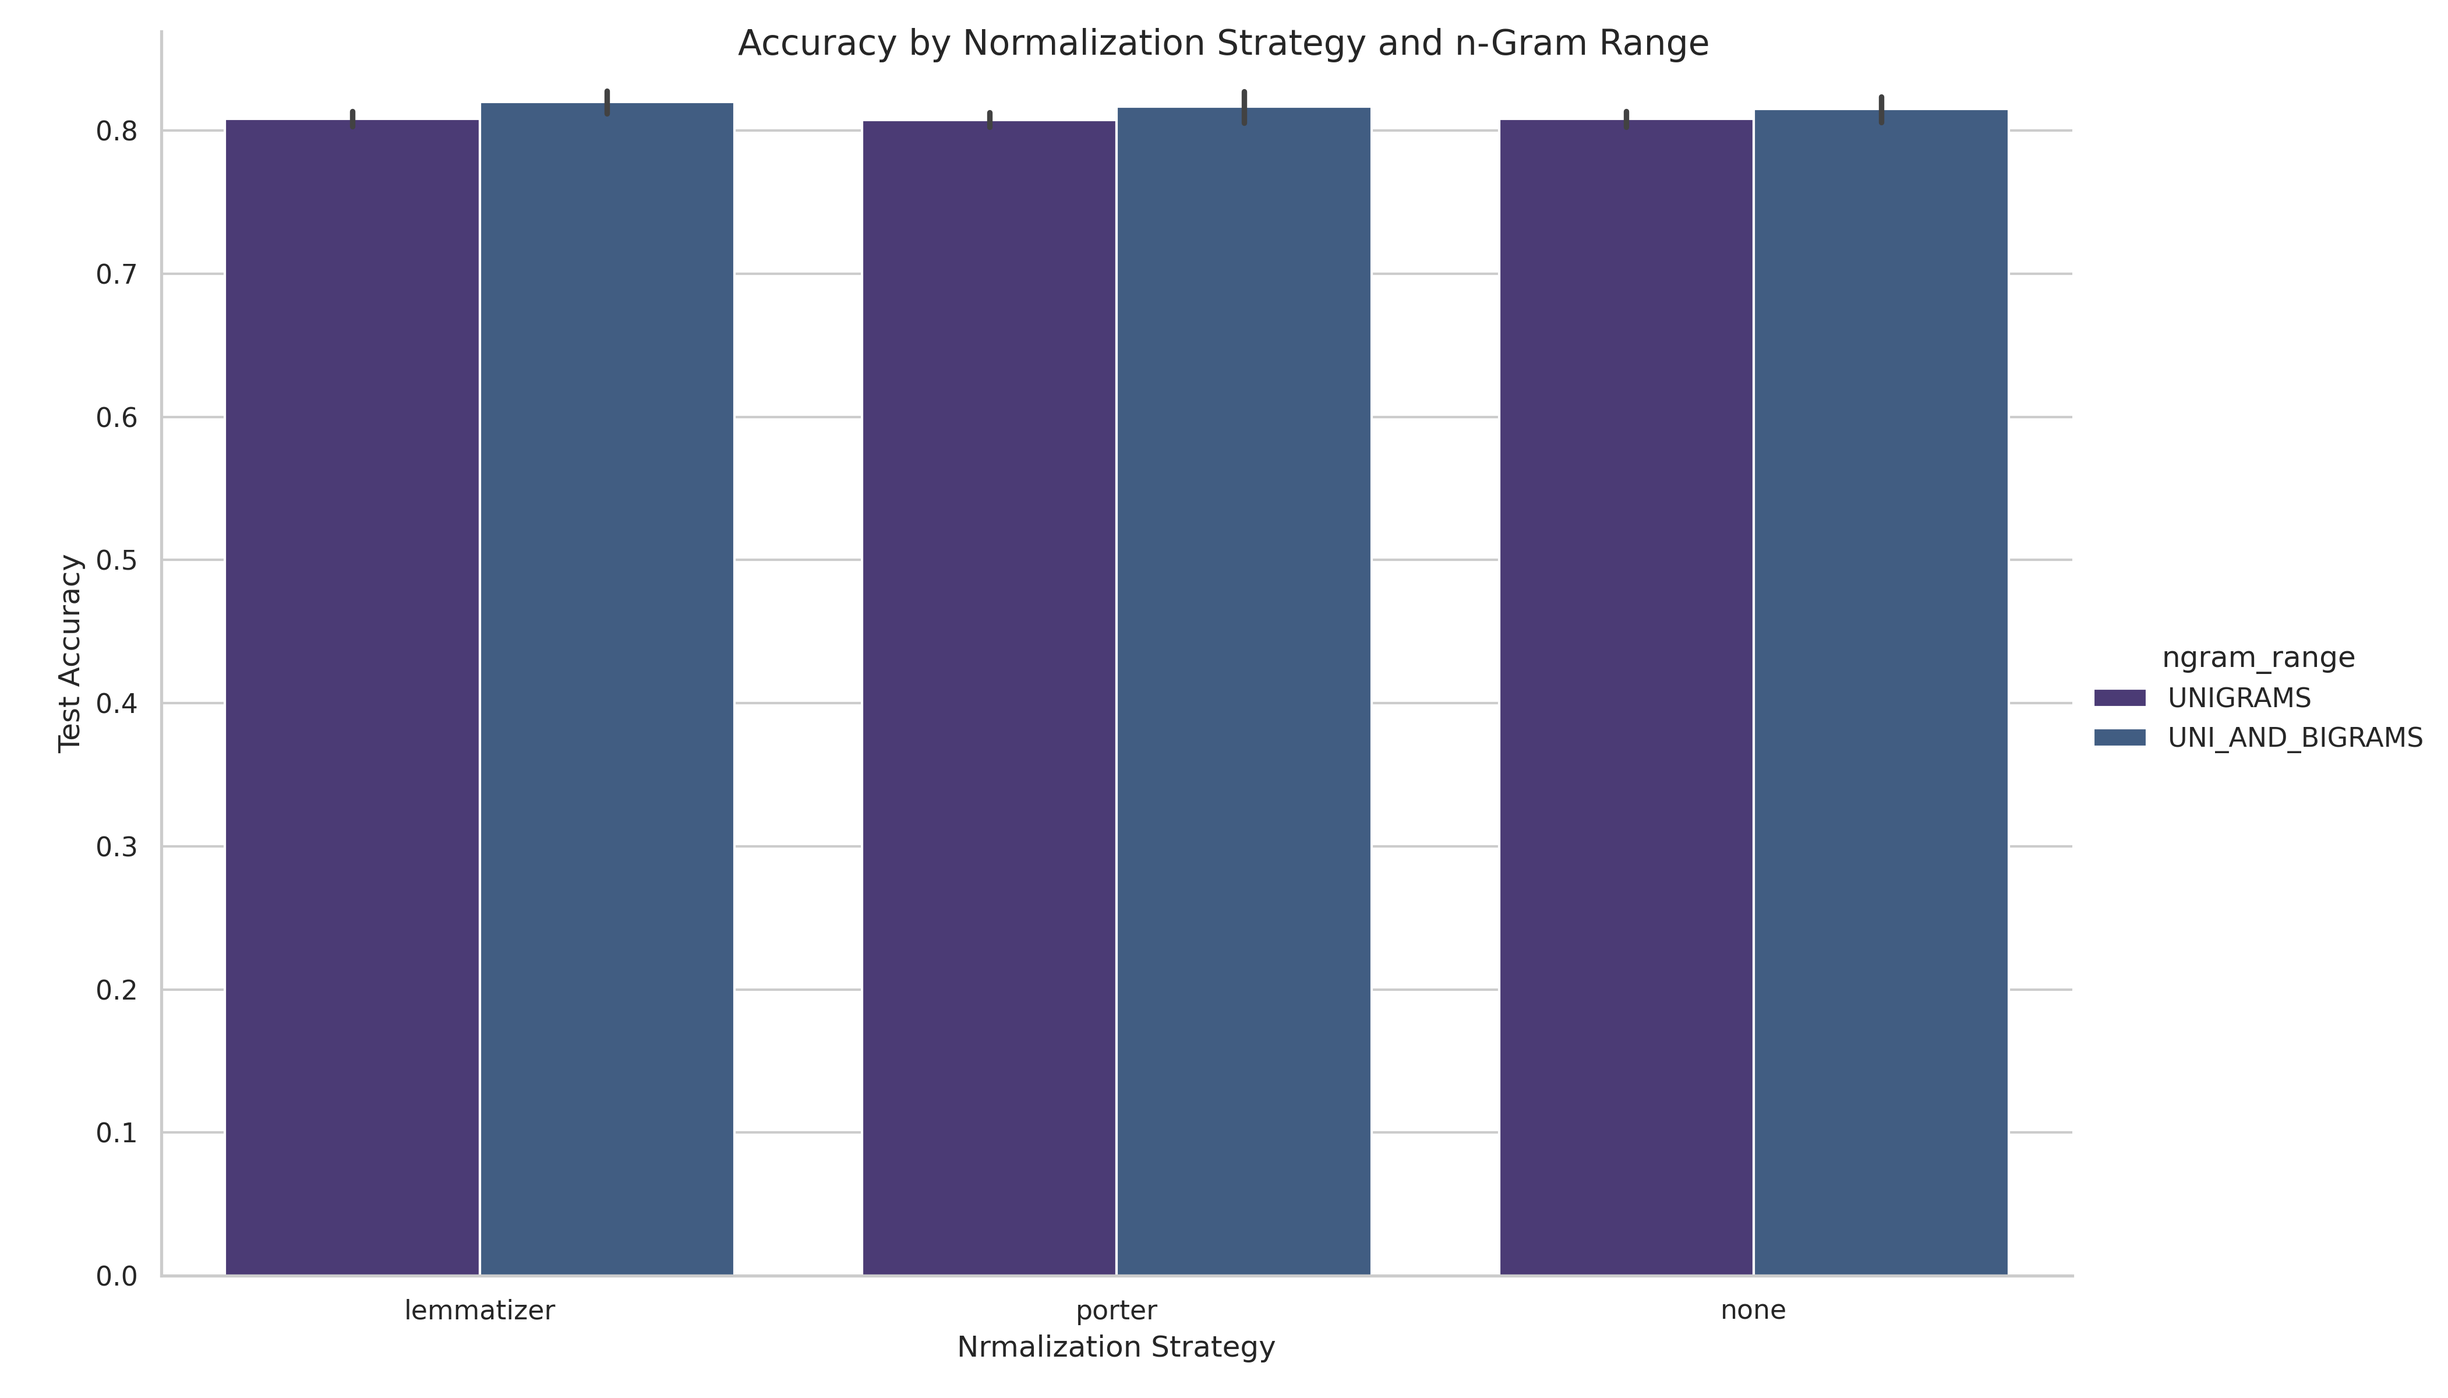
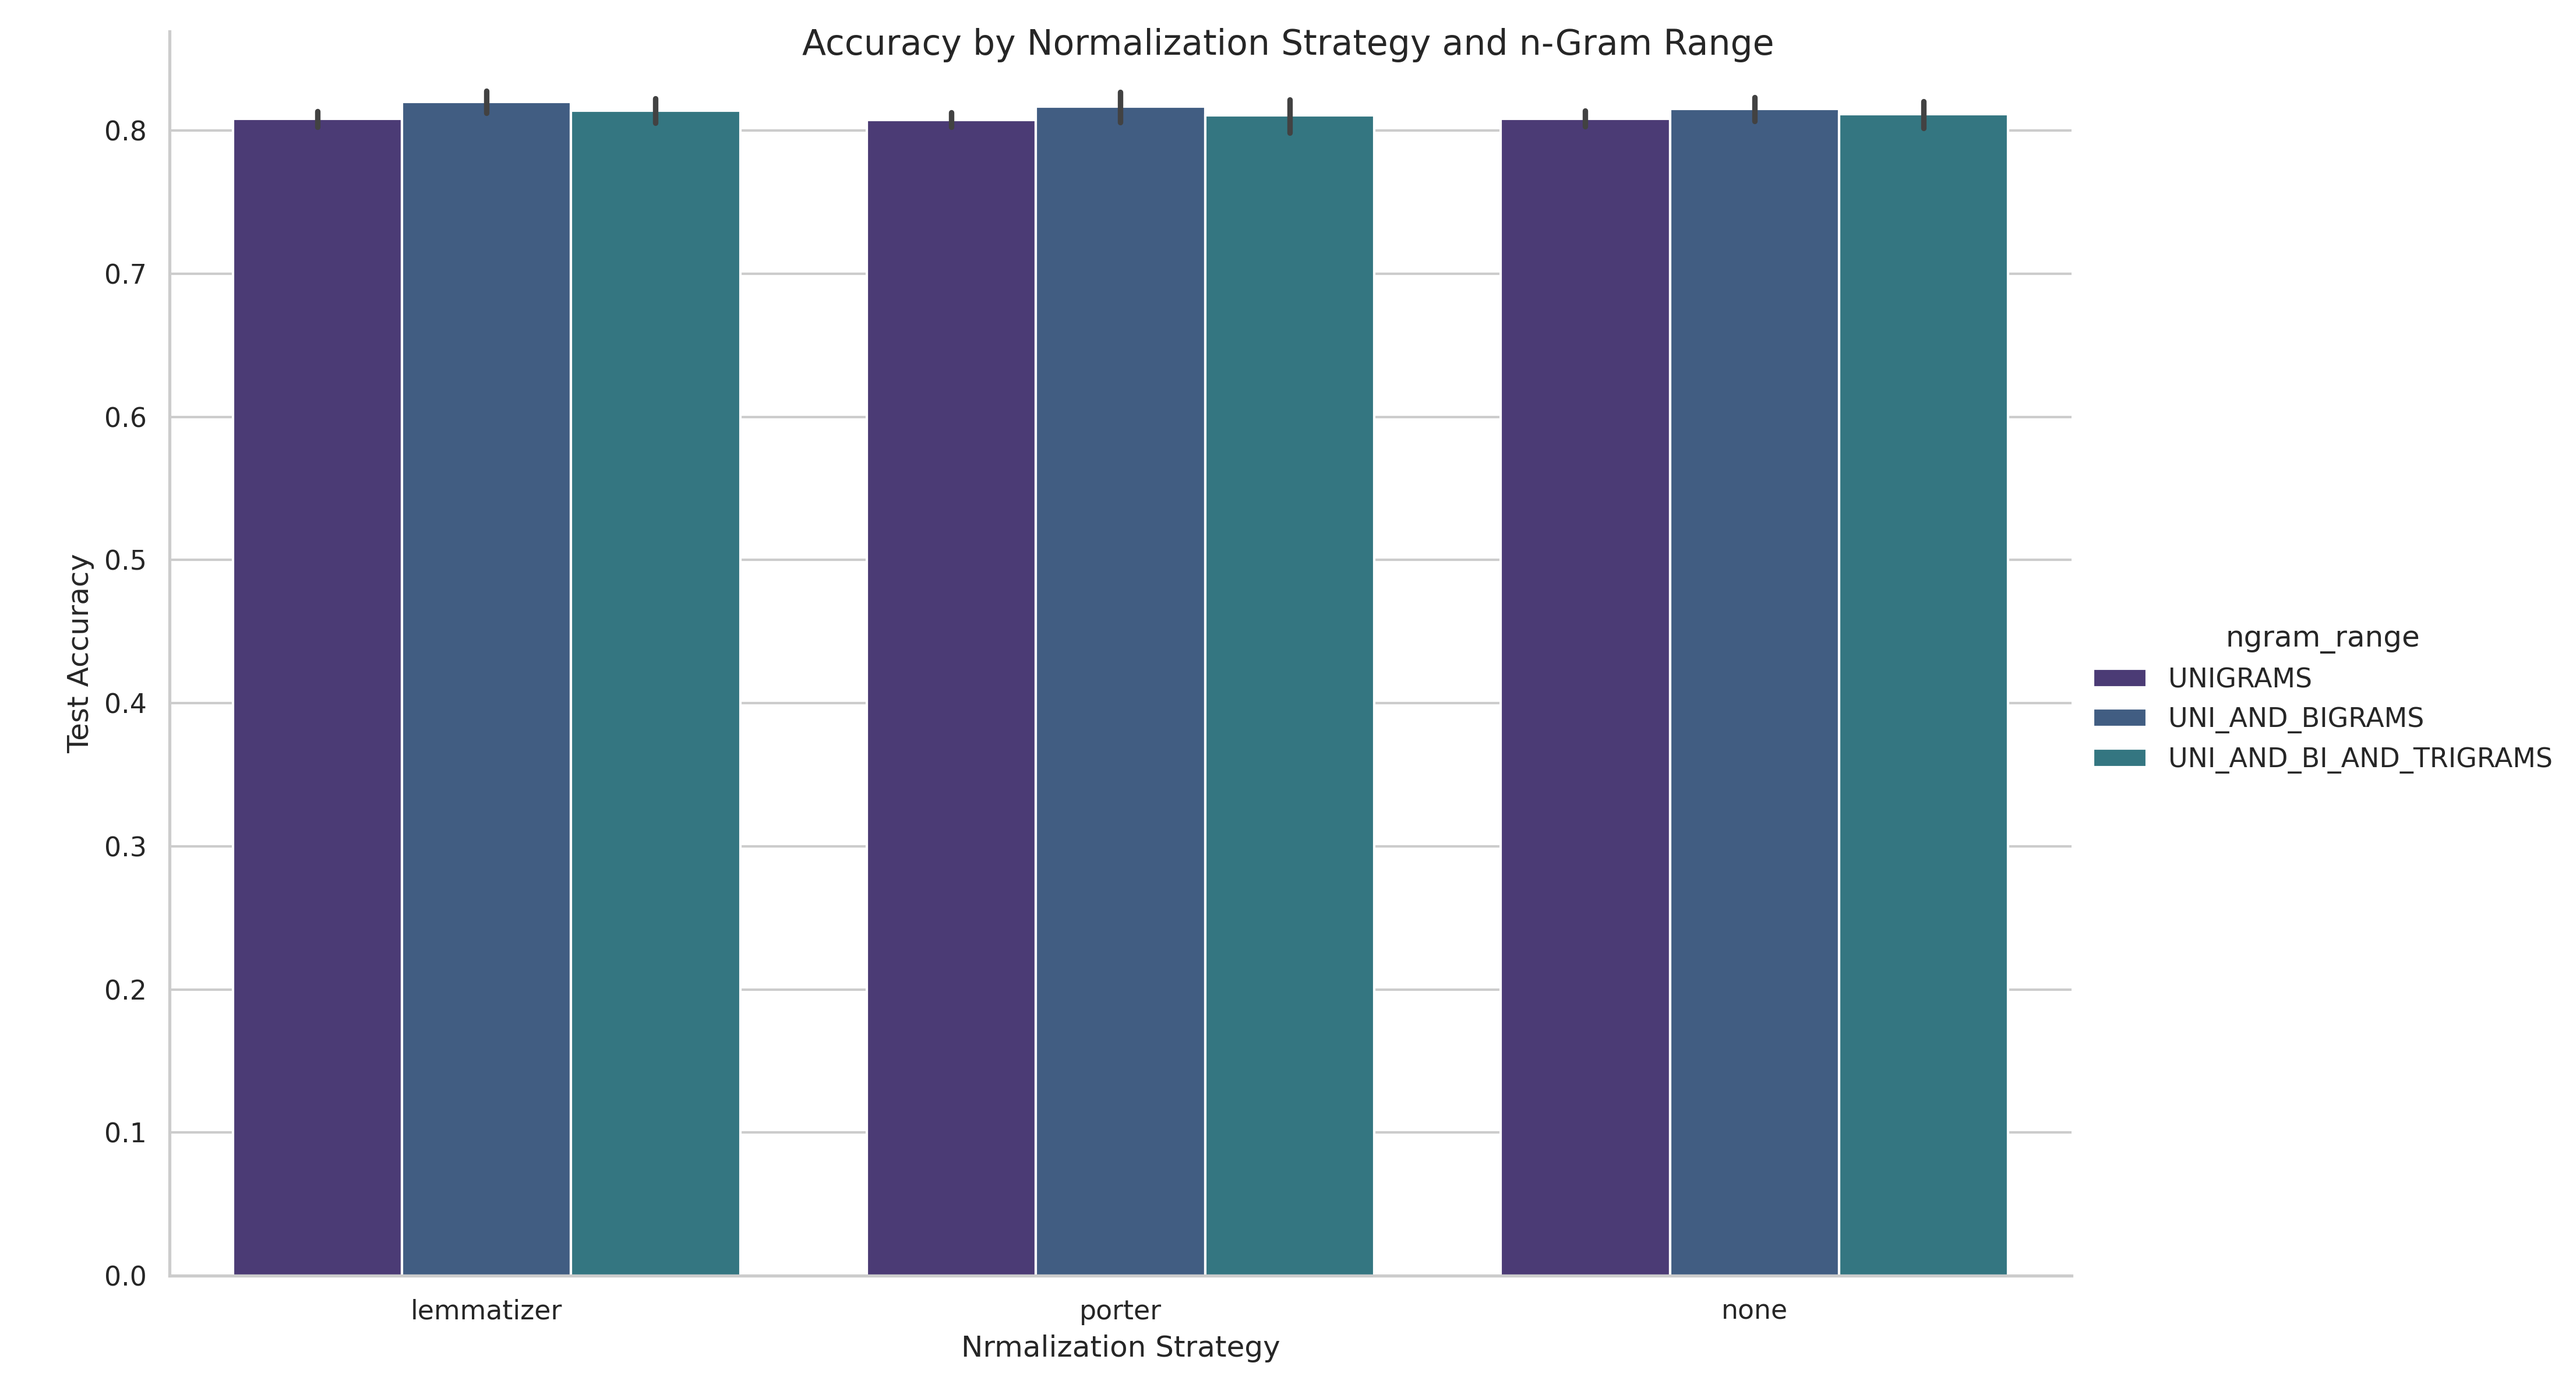
feat: add results for not yet trained parameter configurations

diff --git a/propra_webscience_ws24/training/main.py b/propra_webscience_ws24/training/main.py
@@ -24,7 +24,6 @@ from propra_webscience_ws24.training.svm import (
 
 class VectorizerConfig(Enum):
     TFIDF = TfidfVectorizer
-    # COUNT = CountVectorizer
     HASHING = HashingVectorizer
 
 
@@ -32,7 +31,7 @@ N_PARALLEL_JOBS = os.cpu_count() // 2
 NGRAM_RANGES = [
     NGramRange.UNIGRAMS,
     NGramRange.UNI_AND_BIGRAMS,
-    # NGramRange.UNI_AND_BI_AND_TRIGRAMS,
+    NGramRange.UNI_AND_BI_AND_TRIGRAMS,
 ]
 MAX_FEATURES_LIST = [None, 10_000, 25_000, 50_000, 100_000, 150_000]
 
